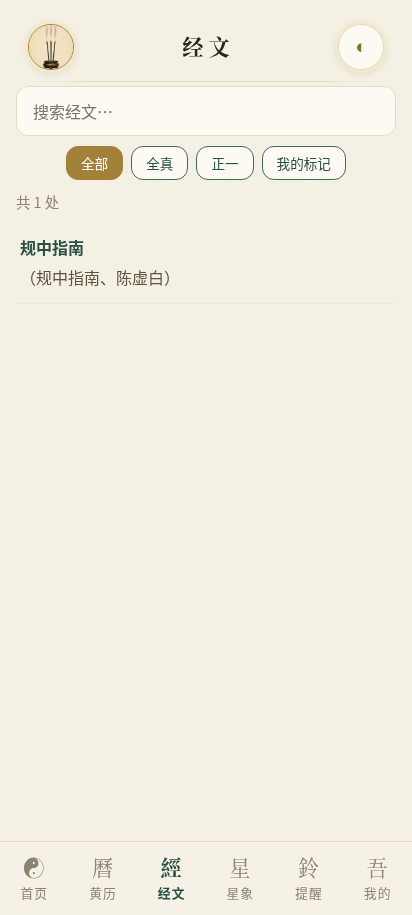
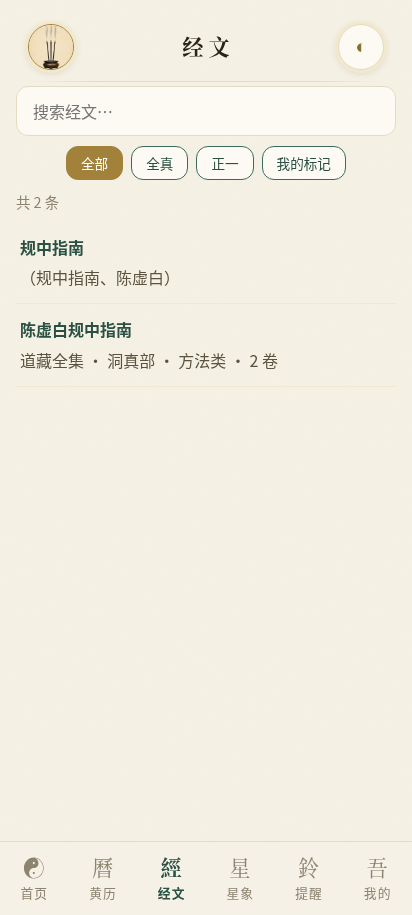
v2.3.0 小步（SW v139）：合入精选内丹+10部（feed scriptures v8/44部，文库常见内丹经文15部齐，逐部底本逐字一致）＋pro.js付费墙根因修复（refreshProUI等直用裸全局t可被覆盖抛TypeError→加载时私有绑定T，敌意覆写回归通过）＋冒烟：neidan10 17/17、profix 11/11

diff --git a/www/js/pro.js b/www/js/pro.js
@@ -8,6 +8,11 @@ var WuriPro = (function () {
   'use strict';
   var TEST_KEY = 'wuri_pro_test';
   var PRICE_FALLBACK = 'US$4.99';
+  /* i18n 翻译函数：i18n.js 先于本文件加载并暴露 window.t，模块初始化时即绑定为私有引用 T。
+   * t() 每次调用都按当前语言实时取值，绑定函数对象本身不影响语言切换；
+   * 不直用裸全局 t——window.t 可被任意全局同名赋值覆盖，覆盖后 refreshProUI 调用即抛
+   * TypeError: t is not a function（2026-10-26 冒烟实测根因），私有绑定后与覆盖绝缘。 */
+  var T = window.t;
 
   function billing() { return window.WuBridgeBilling || null; }
   function isTestBuild() { return !!window.__wuriTestBuild; }
@@ -77,14 +82,14 @@ var WuriPro = (function () {
       } else if (ev.event === 'price') {
         refreshProUI();
       } else if (ev.event === 'cancelled') {
-        toast(t('pro_buy_cancelled'));
+        toast(T('pro_buy_cancelled'));
       } else if (ev.event === 'error') {
-        toast(t('pro_buy_error') + (ev.message ? ': ' + ev.message : ''));
+        toast(T('pro_buy_error') + (ev.message ? ': ' + ev.message : ''));
       }
     } catch (e) {}
   };
 
-  /* i18n 的全局 t()（i18n.js 暴露的 window.t），这里直接用，不自建 */
+  /* toast 文案走 i18n：用文件头绑定的私有引用 T（即 window.t 的函数对象），不自建词条 */
   function toast(msg) {
     try {
       var el = document.getElementById('toast');
@@ -120,7 +125,7 @@ var WuriPro = (function () {
       location.href = 'redeem.html';
       return;
     }
-    try { b.billingBuy(); } catch (e) { toast(t('pro_buy_error')); }
+    try { b.billingBuy(); } catch (e) { toast(T('pro_buy_error')); }
   }
   function restore() {
     var b = billing();
@@ -138,7 +143,7 @@ var WuriPro = (function () {
       }
       return;
     }
-    try { b.billingRestore(); toast(t('pro_restoring')); } catch (e) {}
+    try { b.billingRestore(); toast(T('pro_restoring')); } catch (e) {}
   }
 
   /* 找回激活码面板绑定（网页版） */
@@ -235,7 +240,7 @@ var WuriPro = (function () {
     var price = st.price || PRICE_FALLBACK;
     document.querySelectorAll('[data-pro-price]').forEach(function (el) { el.textContent = price; });
     document.querySelectorAll('[data-pro-state]').forEach(function (el) {
-      el.textContent = pro ? t('pro_active') : t('pro_locked');
+      el.textContent = pro ? T('pro_active') : T('pro_locked');
       el.classList.toggle('on', pro);
     });
     document.querySelectorAll('[data-pro-buybtn]').forEach(function (el) {
@@ -279,7 +284,7 @@ var WuriPro = (function () {
     if (!isTestBuild()) return;
     try { localStorage.setItem(TEST_KEY, '1'); } catch (e) {}
     refreshProUI();
-    toast(t('pro_test_unlocked'));
+    toast(T('pro_test_unlocked'));
   }
 
   /* 点击委托：data-pro-act=buy|restore|close|testunlock|paywall */

diff --git a/www/index.html b/www/index.html
@@ -12,7 +12,7 @@
 <link rel="preload" as="image" href="img/logo-96.png">
 <title>戊日不上香</title>
 <script>try{var _c=JSON.parse(localStorage.getItem('wuri_cfg_v1')||'{}');var _t=_c.theme||'auto';var _n=_t==='night'||(_t==='auto'&&window.matchMedia&&matchMedia('(prefers-color-scheme: dark)').matches);document.documentElement.setAttribute('data-theme',_n?'night':'day');}catch(e){document.documentElement.setAttribute('data-theme','day');}</script>
-<link rel="stylesheet" href="css/style.css?v=138">
+<link rel="stylesheet" href="css/style.css?v=139">
 <link rel="stylesheet" href="css/qimen.css?v=78">
 <link rel="stylesheet" href="css/meditation.css?v=70">
 </head>
@@ -844,7 +844,7 @@
 
     <section class="card">
       <div class="card-title" data-i18n="me_about">关于</div>
-      <div class="detail-row"><span class="dl" data-i18n="me_app">应用</span><span data-i18n="me_ver">戊日不上香 v2.3.0（内部 v138）</span></div>
+      <div class="detail-row"><span class="dl" data-i18n="me_app">应用</span><span data-i18n="me_ver">戊日不上香 v2.3.0（内部 v139）</span></div>
       <div class="detail-row"><span class="dl">开发者</span><span>Shengbo Yu</span></div>
       <div class="detail-row"><span class="dl">联系邮箱</span><a href="javascript:void(0)" id="contact-email" data-email="dennisdysb@gmail.com">dennisdysb@gmail.com</a></div>
       <details class="about-more">

diff --git a/www/sw.js b/www/sw.js
@@ -1,5 +1,5 @@
 /* 戊日不上香 · Service Worker（离线缓存） */
-const CACHE = 'wuri-v138-20261026-v230';
+const CACHE = 'wuri-v139-20261026-v230';
 /* 冥想资产专用缓存（场景图 10＋环境音/磬 11，约 28MB）：安装期整包预缓存，
  * 播放/显示一律本地出（用户 2026-10-25 定调「下载 App 时就该下载下来」）。
  * 与主缓存分开：单件失败不拖垮整版 SW 更新，缺件运行时回落网络现拉。 */
@@ -42,7 +42,7 @@ const ASSETS = [
   './img/logo-96.png',
   './img/qr-wechat.png',
   './img/qr-alipay.jpg',
-  './css/style.css?v=138',
+  './css/style.css?v=139',
   './css/qimen.css?v=78',
   './css/meditation.css?v=70',
   './icon-192.png',

diff --git a/smoke-profix-v139.py b/smoke-profix-v139.py
@@ -1,0 +1,111 @@
+#!/usr/bin/env python3
+# 专项冒烟：pro.js 付费墙 t is not a function 根因修复（v139）
+# 根因：refreshProUI 等处直用裸全局 t（window.t），该绑定可被任意全局同名赋值覆盖；
+# 修复：pro.js 加载时把 window.t 绑定为模块私有引用 T，全部调用走 T。
+# 本冒烟含敌意回归：人为把 window.t 覆写成非函数后，付费墙全路径仍须零异常。
+import importlib.util, json, os, subprocess, sys, time, urllib.request, base64
+spec = importlib.util.spec_from_file_location("smoke_base", os.path.expanduser("~/workspace/wuri-app/smoke-test.py"))
+base = importlib.util.module_from_spec(spec); sys.modules["smoke_base"] = base; spec.loader.exec_module(base)
+
+WWW = os.path.expanduser("~/workspace/wuri-web/www")
+OUT = os.path.expanduser("~/workspace/wuri-web/profix139-shots")
+os.makedirs(OUT, exist_ok=True)
+results = []
+def report(name, ok, extra=""):
+    results.append((name, bool(ok)))
+    print(("PASS " if ok else "FAIL ") + name + ("" if ok else " :: " + str(extra)[:400]))
+
+def rd(p): return open(os.path.join(WWW, p), encoding="utf-8").read()
+FEED_SEED = json.dumps({"scriptures": json.loads(rd("content/scriptures.json"))}, ensure_ascii=False)
+
+def launch(pro):
+    port = base.free_port(); prof = "/tmp/chrome-profix-%s-%d" % ("pro" if pro else "free", port)
+    env = dict(os.environ); env["TZ"] = "America/Toronto"
+    proc = subprocess.Popen([base.CHROME, "--headless=old", "--no-sandbox", "--disable-gpu", "--allow-file-access-from-files",
+                             "--autoplay-policy=no-user-gesture-required", "--remote-debugging-port=%d" % port,
+                             "--user-data-dir=" + prof, "--window-size=500,900", "about:blank"],
+                            stdout=subprocess.DEVNULL, stderr=subprocess.DEVNULL, env=env)
+    wsurl = None
+    for _ in range(40):
+        try:
+            tg = json.load(urllib.request.urlopen("http://127.0.0.1:%d/json" % port, timeout=3))
+            pg = [x for x in tg if x.get("type") == "page"]
+            if pg: wsurl = pg[0]["webSocketDebuggerUrl"]; break
+        except Exception: pass
+        time.sleep(0.5)
+    c = base.CDP(base.ws_connect(wsurl))
+    c.call("Page.enable"); c.call("Runtime.enable")
+    c.call("Emulation.setDeviceMetricsOverride", {"width": 412, "height": 915, "deviceScaleFactor": 1, "mobile": True})
+    init = "window.__errs=[]; addEventListener('error',function(e){window.__errs.push(String(e.message||e.error));});"
+    init += "try{localStorage.setItem('wuri_feed_cache_v1', %s);}catch(e){}" % json.dumps(FEED_SEED)
+    if pro: init += "try{localStorage.setItem('wuri_pro_redeem','1');}catch(e){}"
+    c.call("Page.addScriptToEvaluateOnNewDocument", {"source": init})
+    c.call("Page.navigate", {"url": "file://" + WWW + "/index.html"})
+    time.sleep(4.0)
+    return proc, c
+
+def ev(c, expr):
+    r = c.call("Runtime.evaluate", {"expression": expr, "returnByValue": True})
+    return r["result"].get("value")
+
+def goto_jing(c):
+    ev(c, "document.querySelector('[data-tab=\"tab-jing\"]').click()")
+    time.sleep(1.5)
+    ev(c, "var tg=document.querySelector('[data-neidan-toggle]'); tg && tg.click()")
+    time.sleep(0.6)
+
+# ----- 非 Pro：旧部 s18 + 新部 s40 开墙零异常；墙面行为不变 -----
+proc, c = launch(False)
+goto_jing(c)
+for sid in ["s18", "s40"]:
+    ev(c, "document.querySelector('.jing-neidan-body .jing-item[data-jing=\"%s\"]').click()" % sid)
+    time.sleep(1.0)
+    wall = ev(c, "document.getElementById('paywall').classList.contains('show')")
+    reader_open = ev(c, "!document.getElementById('jing-reader').hidden")
+    report("P1 非Pro点%s弹付费墙且不开卷" % sid, wall is True and not reader_open, (wall, reader_open))
+    if sid == "s18":
+        note = ev(c, "(document.querySelector('#paywall [data-pro-paynote]')||{}).textContent || ''")
+        restore_txt = ev(c, "(document.querySelector('#paywall [data-pro-act=\"restore\"]')||{}).textContent || ''")
+        price = ev(c, "(document.querySelector('#paywall [data-pro-price]')||{}).textContent || ''")
+        report("P2 墙面刷新到位（Stripe说明/找回激活码/价格）",
+               "Stripe" in (note or "") and (restore_txt or "").strip() == "找回激活码" and "4.99" in (price or ""),
+               (note, restore_txt, price))
+        r = c.call("Page.captureScreenshot", {"format": "png"})
+        open(os.path.join(OUT, "paywall-412.png"), "wb").write(base64.b64decode(r["data"]))
+        ev(c, "document.querySelector('#paywall [data-pro-act=\"close\"]').click()")
+        time.sleep(0.5)
+        closed = ev(c, "!document.getElementById('paywall').classList.contains('show')")
+        report("P3 点关闭钮收墙", closed is True, closed)
+errs = ev(c, "window.__errs")
+report("P4 非Pro轮零JS异常", not errs, errs)
+
+# ----- 敌意回归：window.t 被覆写成非函数，pro.js 全路径仍须工作 -----
+ev(c, "window.t = {clobbered: true}; 'typeof t=' + typeof window.t")
+r = ev(c, "try { WuriPro.refreshProUI(); WuriPro.showPaywall('smoke'); 'ok'; } catch (e) { 'THROW: ' + e.message; }")
+wall = ev(c, "document.getElementById('paywall').classList.contains('show')")
+state_txt = ev(c, "(document.querySelector('[data-pro-state]')||{}).textContent || ''")
+report("P5 window.t被覆写后 refreshProUI+showPaywall 不抛且墙可开", r == "ok" and wall is True, (r, wall))
+report("P6 覆写下状态文案仍由私有绑定刷新", bool(state_txt), state_txt)
+ev(c, "WuriPro.hidePaywall()")
+errs = ev(c, "window.__errs")
+report("P7 敌意轮零JS异常", not errs, errs)
+proc.terminate()
+
+# ----- Pro：开卷零回归、状态文案为已解锁 -----
+proc, c = launch(True)
+goto_jing(c)
+ev(c, "JingWen.openReader('s40')")
+time.sleep(1.5)
+opened = ev(c, "!document.getElementById('jing-reader').hidden && document.getElementById('jing-title').textContent.indexOf('悟真篇')>=0")
+wall = ev(c, "document.getElementById('paywall').classList.contains('show')")
+report("P8 Pro点新部s40直接开卷无墙", opened is True and wall is False, (opened, wall))
+state = ev(c, "(function(){var e=document.querySelector('[data-pro-state]'); return e ? {txt: e.textContent, on: e.classList.contains('on')} : null;})()")
+report("P9 Pro状态文案已刷新（已解锁态）", bool(state and state["on"]), state)
+errs = ev(c, "window.__errs")
+report("P10 Pro轮零JS异常", not errs, errs)
+proc.terminate()
+
+np = sum(1 for _, ok in results if ok)
+print("== %d/%d PASS ==" % (np, len(results)))
+open(os.path.join(OUT, "smoke-profix-v139-results.txt"), "w", encoding="utf-8").write(
+    "\n".join(("PASS " if ok else "FAIL ") + n for n, ok in results) + "\n== %d/%d ==\n" % (np, len(results)))

diff --git a/smoke-neidan10.py b/smoke-neidan10.py
@@ -1,12 +1,12 @@
 #!/usr/bin/env python3
 # 专项冒烟：精选层「常见内丹经文」+10 部（底本取自道藏全藏 feed/Kanripo KR5）
-# worktree 本地验证（file://），基线 = HEAD v137（陈列改版批未合入前）
+# 主树本地验证（file://），基线 = v138 已合入 neidan-10 分支（2026-10-26 发版 v139 复跑）
 import importlib.util, json, os, subprocess, sys, time, urllib.request, base64
 spec = importlib.util.spec_from_file_location("smoke_base", os.path.expanduser("~/workspace/wuri-app/smoke-test.py"))
 base = importlib.util.module_from_spec(spec); sys.modules["smoke_base"] = base; spec.loader.exec_module(base)
 
-WWW = os.path.expanduser("~/workspace/wuri-web-neidan10/www")
-OUT = os.path.expanduser("~/workspace/wuri-web-neidan10/neidan10-shots")
+WWW = os.path.expanduser("~/workspace/wuri-web/www")
+OUT = os.path.expanduser("~/workspace/wuri-web/neidan10-shots")
 os.makedirs(OUT, exist_ok=True)
 results = []
 def report(name, ok, extra=""):
@@ -89,7 +89,7 @@ proc, c = launch(False)
 goto_jing(c)
 feedv = ev(c, "window.WURI_FEED && WURI_FEED.applied && WURI_FEED.applied.scriptures")
 report("B1 feed 已应用 v8", feedv == 8, feedv)
-ev(c, "var t=document.querySelector('[data-neidan-toggle]'); t && t.click()")
+ev(c, "var tg=document.querySelector('[data-neidan-toggle]'); tg && tg.click()")  # 变量名禁用 t：全局 var t 会覆盖 i18n 的 window.t（2026-10-26 假阳性根因）
 time.sleep(0.6)
 ids = ev(c, "Array.from(document.querySelectorAll('.jing-neidan-body .jing-item')).map(function(e){return e.getAttribute('data-jing')})")
 want = sorted(OLD5 + [s for s, _, _, _ in NEW])
